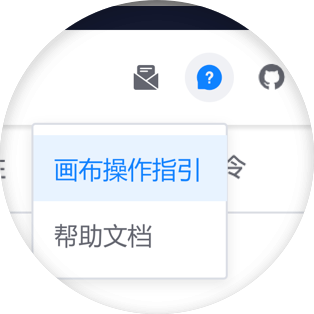
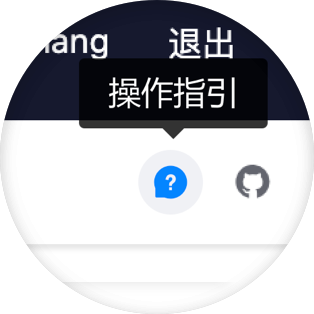
opt: 画布指引优化
fix: 删除无用依赖

diff --git a/paas-ce/lesscode/lib/client/src/components/ui/extra-links.vue b/paas-ce/lesscode/lib/client/src/components/ui/extra-links.vue
@@ -1,13 +1,8 @@
 <template>
     <div class="extra-links">
-        <bk-popover v-if="showHelpBox" placement="bottom-end" theme="light extra-links" :arrow="false">
-            <div class="help-box">
-                <i class="dropdown-trigger-btn bk-icon icon-question-circle-shape" />
-            </div>
-            <div class="extra-links-popover-panel" slot="content">
-                <slot name="before" />
-            </div>
-        </bk-popover>
+        <div class="help-box" @click="helpClick" v-bk-tooltips="helpTooltips">
+            <i class="dropdown-trigger-btn bk-icon icon-question-circle-shape" />
+        </div>
         <div class="github-link" @click="goGithub" v-bk-tooltips="{ content: 'Github', placements: ['bottom'] }">
             <i class="bk-drag-icon bk-drag-github-logo"></i>
         </div>
@@ -20,6 +15,17 @@
             showHelpBox: {
                 type: Boolean,
                 default: false
+            },
+            helpClick: {
+                type: Function,
+                default: () => {}
+            },
+            helpTooltips: {
+                type: Object,
+                default: () => ({
+                    content: '帮助',
+                    placements: ['bottom']
+                })
             }
         },
         data () {

diff --git a/paas-ce/lesscode/lib/client/src/views/index/index.vue b/paas-ce/lesscode/lib/client/src/views/index/index.vue
@@ -89,8 +89,9 @@
                     </ul>
                 </div>
             </div>
-            <extra-links show-help-box>
-                <div slot="before" @click="handleStartGuide">画布操作指引</div>
+            <extra-links show-help-box
+                :help-click="handleStartGuide"
+                :help-tooltips="{ content: '画布操作指引', placements: ['bottom'] }">
             </extra-links>
         </div>
         <div class="main-container">

diff --git a/paas-ce/lesscode/lib/client/src/views/project/index.vue b/paas-ce/lesscode/lib/client/src/views/project/index.vue
@@ -160,6 +160,7 @@
 
 <style lang="postcss">
     @import "@/css/mixins/ellipsis";
+    @import "@/css/mixins/scroller";
 
     .select-project-dropdown .bk-select-search-input {
         padding: 0 10px 0 30px;
@@ -248,6 +249,7 @@
         .main-container {
             height: calc(100% - var(--breadcrumb-height));
             overflow: auto;
+            @mixin scroller;
 
             .exception-page {
                 height: 100%;

diff --git a/paas-ce/lesscode/lib/client/src/App.vue b/paas-ce/lesscode/lib/client/src/App.vue
@@ -109,10 +109,6 @@
         font-family: -apple-system, BlinkMacSystemFont, PingFang SC, Microsoft YaHei, Helvetica Neue, Arial;
     }
 
-    .bk-fixed-navbar-wrapper {
-        z-index: 9999;
-    }
-
     .win {
         /* font-family: Microsoft Yahei, PingFang SC, Helvetica, Aria; */
         font-family: -apple-system, BlinkMacSystemFont, PingFang SC, Microsoft YaHei, Helvetica Neue, Arial;
